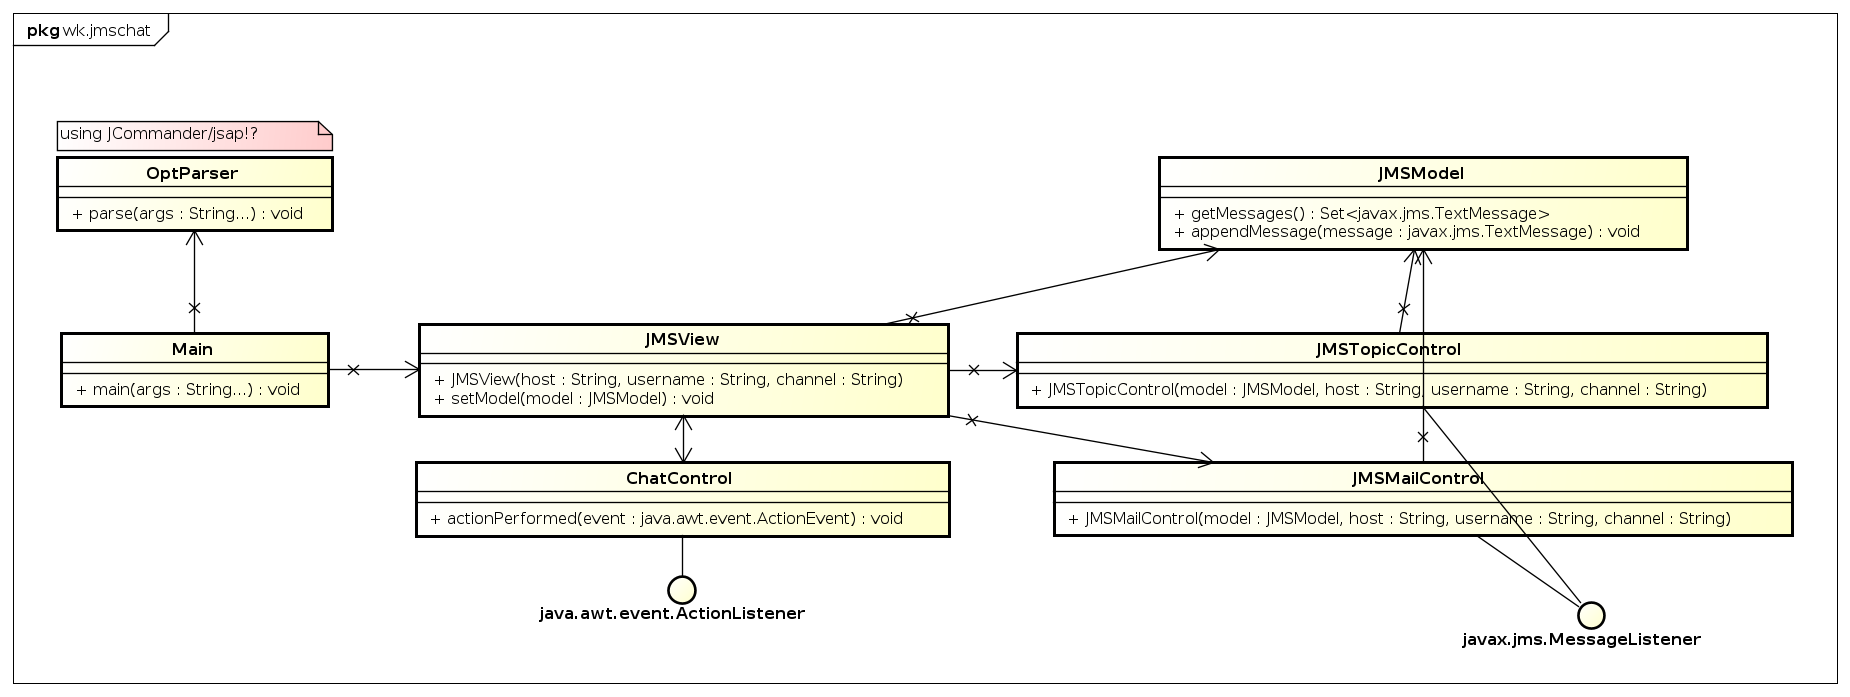
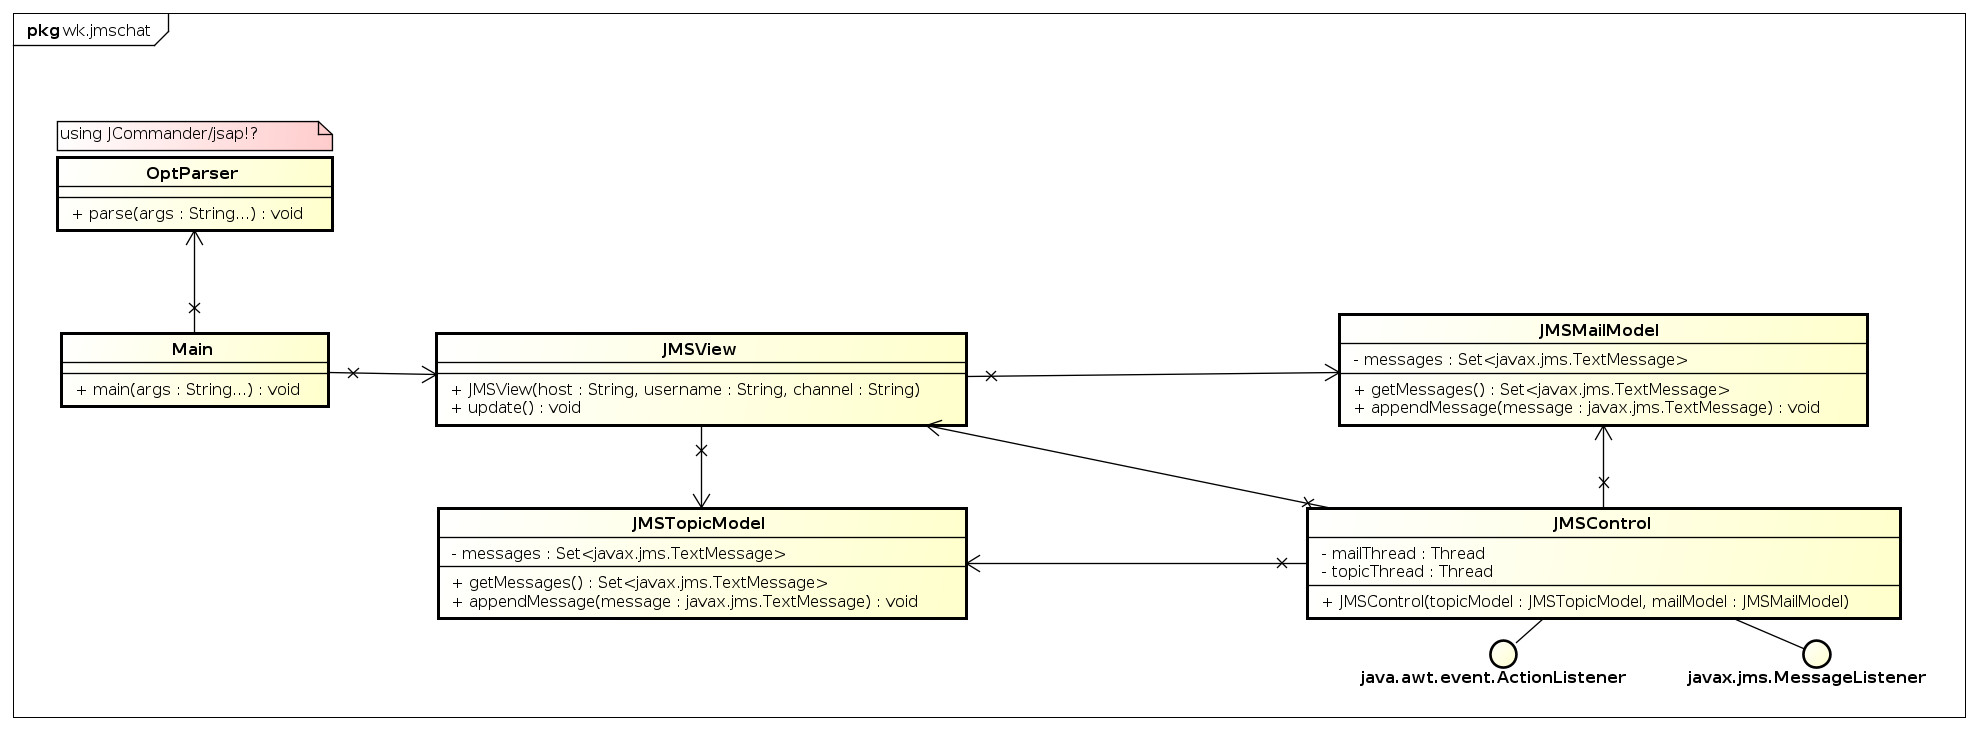
UML überarbeitet

diff --git a/README.rst b/README.rst
@@ -114,6 +114,10 @@ Zeitaufzeichnung
 +============================+==============+=========+=========+===========+====================+
 | UML                        |  2013-02-11  |  13:00  |  13:40  |     0:40  | Jakob Klepp        |
 +----------------------------+--------------+---------+---------+-----------+--------------------+
+| UML überarbeitet           |  2013-02-11  |  13:40  |  13:50  |     0:10  | Jakob Klepp        |
++----------------------------+--------------+---------+---------+-----------+--------------------+
+| UML überarbeitet           |  2013-02-11  |  13:40  |  13:50  |     0:10  | Andreas Willinger  |
++----------------------------+--------------+---------+---------+-----------+--------------------+
 
 =========
 Umsetzung
